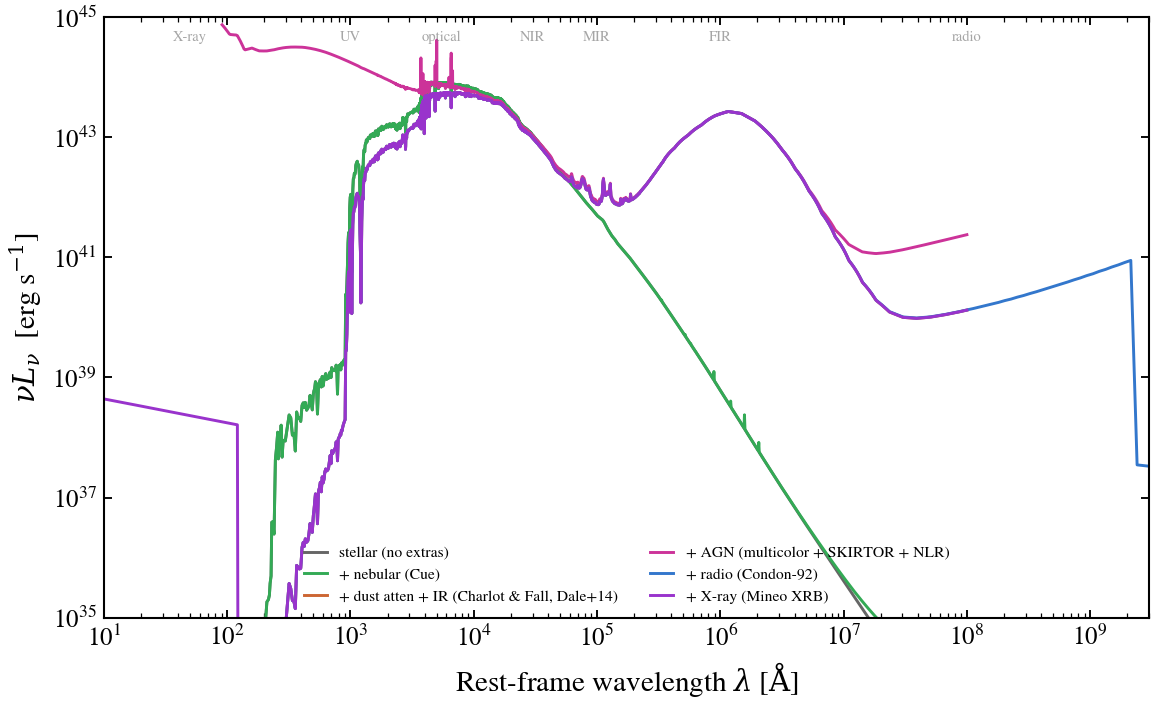
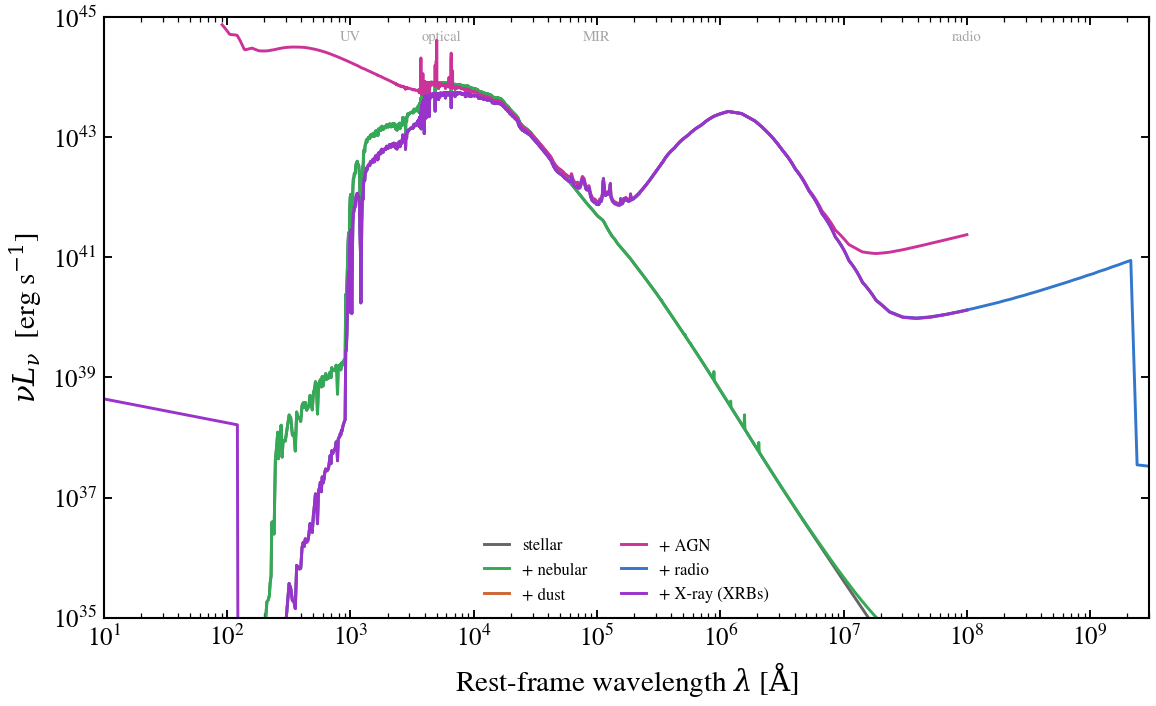
review pass: tighten both round-6 scripts
Smaller, less mechanical. Both scripts now factor the repeated
config dicts into named constants (DUST_ON / DUST_OFF / HOST,
BANDS / nu_eff), drop AI-cargo comments that re-state what the
code does, and trim the cumulative-build dust dict duplication
that ran four times in plot_components_isolated.

Public API unchanged; figures identical.

diff --git a/examples/multiwavelength/plot_components_isolated.py b/examples/multiwavelength/plot_components_isolated.py
@@ -2,19 +2,13 @@
 Each tengri SED component shown in isolation
 ==============================================
 
-Six physics blocks evaluated one at a time on the same baseline
-galaxy so the reader sees what each component contributes to a
-panchromatic SED. Use this card to ask "if my data only constrain
-wavelength X, which component(s) matter?"
+Six physics blocks added cumulatively to the same star-forming host
+so the contribution of each is visible at every wavelength.
 
-Components (one per panel, all on the same axes):
-- ``stellar``  — bare SSP-weighted stellar continuum (no other block active)
-- ``+ nebular`` — Cue HII region emission added at the source
-- ``+ dust (atten + IR)`` — full Charlot & Fall attenuation + Dale+2014
-  re-emission
-- ``+ AGN``    — composable disc + SKIRTOR torus + NLR overlaid on host
-- ``+ radio``  — Condon-92 GHz synchrotron + free-free
-- ``+ X-ray``  — Mineo HMXB + LMXB X-ray binaries
+Reading order: stellar continuum (grey), then nebular (HII region
+lines added at the source), then dust (UV attenuated, reprocessed
+into the FIR), then AGN (disc + torus + NLR), then radio, then X-ray.
+The colour at each wavelength tells you which block matters most.
 """
 
 import warnings
@@ -29,78 +23,58 @@ from tengri.analysis.plotting import setup_style
 setup_style()
 warnings.filterwarnings("ignore", message=".*BakedInBackend.*")
 
-C_AA_PER_S = 2.998e18
 
-BASE = dict(
+SSP = tengri.load_ssp("fsps_prsc_miles_chabrier")
+HOST = dict(
     sfh={"type": "dpl", "*": tengri.FIXED,
          "tau_gyr": 1.5, "log_peak_sfr": 1.3, "alpha": 2.5, "beta": 2.0},
     redshift=tengri.Fixed(0.05),
 )
+DUST_ON = {"type": "two_component", "*": tengri.FIXED,
+           "tau_diff": 0.4, "tau_bc": 0.6,
+           "emission": {"type": "dale2014", "*": tengri.FIXED}}
+DUST_OFF = {"type": "two_component", "*": tengri.FIXED,
+            "tau_diff": 0.0, "tau_bc": 0.0}
 
-# Each call returns (wave, nu*L_nu) for a model with the given
-# blocks switched on (everything else off).
-def _run(**extra_blocks):
-    bare = tengri.load_ssp("fsps_prsc_miles_chabrier")
-    cfg = {
-        "ssp_data": bare,
-        "dust": {"type": "two_component", "*": tengri.FIXED,
-                 "tau_diff": 0.0, "tau_bc": 0.0},
-        **BASE,
-    }
-    cfg.update(extra_blocks)  # let caller override dust/etc.
-    model = tengri.SEDModel.build(**cfg)
+
+def _nuLnu(**blocks):
+    model = tengri.SEDModel.build(SSP, **HOST, **blocks)
     p = dict(model.spec.sample(jax.random.PRNGKey(0)))
     out = model.predict_rest_sed(p)
     wave = np.asarray(out.wavelength)
-    return wave, C_AA_PER_S / wave * np.asarray(out.sed)
+    return wave, 2.998e18 / wave * np.asarray(out.sed)
 
 
-# Cumulative builds.
-runs = [
-    ("stellar (no extras)", "#666666",
-     _run()),
-    ("+ nebular (Cue)", "#33aa55",
-     _run(neb={"type": "cue", "*": tengri.FIXED})),
-    ("+ dust atten + IR (Charlot & Fall, Dale+14)", "#cc6633",
-     _run(dust={"type": "two_component", "*": tengri.FIXED,
-                "tau_diff": 0.4, "tau_bc": 0.6,
-                "emission": {"type": "dale2014", "*": tengri.FIXED}})),
-    ("+ AGN (multicolor + SKIRTOR + NLR)", "#cc3399",
-     _run(dust={"type": "two_component", "*": tengri.FIXED,
-                "tau_diff": 0.4, "tau_bc": 0.6,
-                "emission": {"type": "dale2014", "*": tengri.FIXED}},
-          agn={"disc":  {"type": "multicolor", "*": tengri.FIXED},
-               "torus": {"type": "skirtor",    "*": tengri.FIXED},
-               "lines": {"type": "nlr",        "*": tengri.FIXED},
-               "*": tengri.FIXED, "log_lbol": 11.5, "frac": 0.5})),
-    ("+ radio (Condon-92)", "#3377cc",
-     _run(dust={"type": "two_component", "*": tengri.FIXED,
-                "tau_diff": 0.4, "tau_bc": 0.6,
-                "emission": {"type": "dale2014", "*": tengri.FIXED}},
-          radio={"type": "condon92", "*": tengri.FIXED})),
-    ("+ X-ray (Mineo XRB)", "#9933cc",
-     _run(dust={"type": "two_component", "*": tengri.FIXED,
-                "tau_diff": 0.4, "tau_bc": 0.6,
-                "emission": {"type": "dale2014", "*": tengri.FIXED}},
-          xray={"type": "simple", "*": tengri.FIXED})),
+RUNS = [
+    ("stellar",        "#666666", dict(dust=DUST_OFF)),
+    ("+ nebular",      "#33aa55", dict(dust=DUST_OFF,
+                                       neb={"type": "cue", "*": tengri.FIXED})),
+    ("+ dust",         "#cc6633", dict(dust=DUST_ON)),
+    ("+ AGN",          "#cc3399", dict(dust=DUST_ON,
+                                       agn={"disc":  {"type": "multicolor", "*": tengri.FIXED},
+                                            "torus": {"type": "skirtor",    "*": tengri.FIXED},
+                                            "lines": {"type": "nlr",        "*": tengri.FIXED},
+                                            "*": tengri.FIXED,
+                                            "log_lbol": 11.5, "frac": 0.5})),
+    ("+ radio",        "#3377cc", dict(dust=DUST_ON,
+                                       radio={"type": "condon92", "*": tengri.FIXED})),
+    ("+ X-ray (XRBs)", "#9933cc", dict(dust=DUST_ON,
+                                       xray={"type": "simple", "*": tengri.FIXED})),
 ]
 
 fig, ax = plt.subplots(figsize=(8.0, 5.0))
-for label, color, (wave, nuL) in runs:
+for label, color, blocks in RUNS:
+    wave, nuL = _nuLnu(**blocks)
     ax.loglog(wave, nuL, color=color, lw=1.4, label=label)
 
-# Wavelength region annotations
-for x, name in [(50, "X-ray"), (1000, "UV"), (5500, "optical"),
-                (3e4, "NIR"), (1e5, "MIR"), (1e6, "FIR"),
-                (1e8, "radio")]:
-    ax.text(x, 4e44, name, fontsize=7, color="0.5", ha="center",
-            rotation=0, alpha=0.7)
+for x, name in [(1000, "UV"), (5500, "optical"),
+                (1e5, "MIR"), (1e8, "radio")]:
+    ax.text(x, 4e44, name, fontsize=7, color="0.5", ha="center", alpha=0.7)
 
-ax.set_xlim(1e1, 3e9)
-ax.set_ylim(1e35, 1e45)
-ax.set_xlabel(r"Rest-frame wavelength $\lambda$ [$\mathrm{\AA}$]")
-ax.set_ylabel(r"$\nu L_\nu$  [erg s$^{-1}$]")
-ax.legend(frameon=False, fontsize=7.5, loc="lower center", ncol=2)
+ax.set(xlim=(10, 3e9), ylim=(1e35, 1e45),
+       xlabel=r"Rest-frame wavelength $\lambda$ [$\mathrm{\AA}$]",
+       ylabel=r"$\nu L_\nu$  [erg s$^{-1}$]")
+ax.legend(frameon=False, fontsize=8, loc="lower center", ncol=2)
 
 fig.tight_layout()
 fig.savefig("plot_components_isolated.png", dpi=150, bbox_inches="tight")

diff --git a/examples/sps/plot_mass_to_light_ratios.py b/examples/sps/plot_mass_to_light_ratios.py
@@ -2,17 +2,16 @@
 Stellar mass-to-light ratios vs SSP age, per band
 ====================================================
 
-The conversion from observed flux to stellar mass — the mass-to-light
-ratio ``M/L`` — depends on stellar age and the photometric band used.
-For a single-burst stellar population, ``M/L`` rises monotonically
-with age in every band; the rise is steepest in the blue, where
-massive bright stars dominate young populations, and shallowest in
-the K band, where light is dominated by red giants at every age past
-~1 Gyr.
+``M_★/L_band`` rises with stellar age in every band; the rise is
+steepest in g, where massive young stars dominate, and shallowest in
+``K_s``, where red giants contribute at every age past the first
+~100 Myr.
 
-We compute ``M_star / L_band`` (in ``M_sun / L_sun``) for a narrow
-single-burst SSP swept from 30 Myr to 11 Gyr in four bands:
-SDSS ``g``, SDSS ``r``, SDSS ``i``, 2MASS ``Ks``.
+A narrow burst centred at a sweep of lookback times approximates an
+SSP. ``M_★`` comes from integrating the recovered SFH; ``L_band``
+from inverting tengri's photometric prediction back to ``L_ν``
+(using a fixed ``d_L`` at ``z = 0.01``) and multiplying by the
+band's effective frequency.
 """
 
 import warnings
@@ -28,13 +27,8 @@ from tengri.analysis.plotting import setup_style
 setup_style()
 warnings.filterwarnings("ignore", message=".*BakedInBackend.*")
 
-# AB-mag → nu*L_nu zeropoint per band needs the filter effective wavelength.
-# We'll compute L_band = integral of L_nu T_nu dnu / integral T_nu dnu directly
-# from predict_photometry, then convert to L_band-in-Lsun via the band's
-# effective frequency.
-
-C_AA_PER_S = 2.998e18
 L_SUN_ERG_S = 3.839e33
+D_L_CM = 43.6 * 3.086e24   # luminosity distance at z = 0.01
 
 BANDS = [
     ("sdss_g",   "g (SDSS)"),
@@ -47,52 +41,43 @@ COLORS = plt.cm.viridis(np.linspace(0.05, 0.92, len(BANDS)))
 obs = tengri.Observation(
     photometry=tengri.Photometry.from_names([b for b, _ in BANDS])
 )
-wave_eff = np.array([float(jnp.mean(w)) for w in obs.photometry.filter_waves])
+nu_eff = 2.998e18 / np.array(
+    [float(jnp.mean(w)) for w in obs.photometry.filter_waves]
+)
 
-ssp = tengri.load_ssp()
 model = tengri.SEDModel.build(
-    ssp,
+    tengri.load_ssp(),
     observation=obs,
     sfh={"type": "tsnorm", "*": tengri.FIXED,
          "peak_lbt_gyr": tengri.Uniform(0.03, 13.0),
-         "width_gyr": 0.05,
-         "log_peak_sfr": 1.0, "skew": 0.0, "trunc": 13.0},
+         "width_gyr": 0.05, "log_peak_sfr": 1.0,
+         "skew": 0.0, "trunc": 13.0},
     dust={"type": "two_component", "*": tengri.FIXED,
           "tau_diff": 0.0, "tau_bc": 0.0},
     redshift=tengri.Fixed(0.01),
 )
 baseline = dict(model.spec.sample(jax.random.PRNGKey(0)))
 
-ages = np.geomspace(0.03, 1.0, 16)  # SFH normalisation gets noisy past ~1 Gyr
-                                      # (burst clipped at universe age)
-ml_grid = np.empty((len(BANDS), ages.size))
+# Past ~1 Gyr the narrow burst window starts to clip against the
+# universe age and the SFH normalisation goes noisy.
+ages = np.geomspace(0.03, 1.0, 16)
+ml = np.empty((len(BANDS), ages.size))
 
 for j, age in enumerate(ages):
     p = {**baseline, "sfh_tsnorm_peak_lbt_gyr": jnp.float64(age)}
-    # Total stellar mass from the SFH normalisation:
     sfh = model.predict_sfh(p)
-    t = np.asarray(sfh["t_gyr"])
-    sfr = np.asarray(sfh["sfr_mean"])
-    m_star = float(np.trapezoid(sfr, t * 1e9))
-    # Band luminosity: F_nu × 4π d_L^2 to get L_nu, then × nu_eff to L_band.
-    # At z=0.01 the flux is essentially L_nu / (4π d_L^2). We avoid the
-    # cosmology by computing L_band ratio M/L using the model's photometry
-    # output scaled to L_sun via the effective-frequency multiplication.
-    flux = np.asarray(model.predict_photometry(p))     # erg/s/cm^2/Hz
-    # Approximate distance modulus at z=0.01: d_L ≈ 43.6 Mpc.
-    d_l_cm = 43.6 * 3.086e24
-    L_nu = flux * 4 * np.pi * d_l_cm**2            # erg/s/Hz
-    nu_eff = C_AA_PER_S / wave_eff                 # Hz
-    L_band = L_nu * nu_eff / L_SUN_ERG_S           # L_sun
-    ml_grid[:, j] = m_star / np.maximum(L_band, 1e-12)
+    m_star = float(np.trapezoid(np.asarray(sfh["sfr_mean"]),
+                                np.asarray(sfh["t_gyr"]) * 1e9))
+    flux = np.asarray(model.predict_photometry(p))
+    L_band = flux * 4 * np.pi * D_L_CM**2 * nu_eff / L_SUN_ERG_S
+    ml[:, j] = m_star / np.maximum(L_band, 1e-12)
 
 fig, ax = plt.subplots(figsize=(7.0, 4.6))
-for (band, label), color, m_l in zip(BANDS, COLORS, ml_grid):
+for (_, label), color, m_l in zip(BANDS, COLORS, ml):
     ax.loglog(ages, m_l, color=color, lw=1.6, label=label)
-
-ax.set_xlabel("Stellar burst age  [Gyr]")
-ax.set_ylabel(r"$M_\star\,/\,L$  [$M_\odot\,/\,L_\odot$]")
-ax.set_ylim(0.03, 3.0)
+ax.set(xlabel="Stellar burst age  [Gyr]",
+       ylabel=r"$M_\star\,/\,L$  [$M_\odot\,/\,L_\odot$]",
+       ylim=(0.03, 3.0))
 ax.legend(frameon=False, fontsize=9, loc="upper left")
 
 fig.tight_layout()
